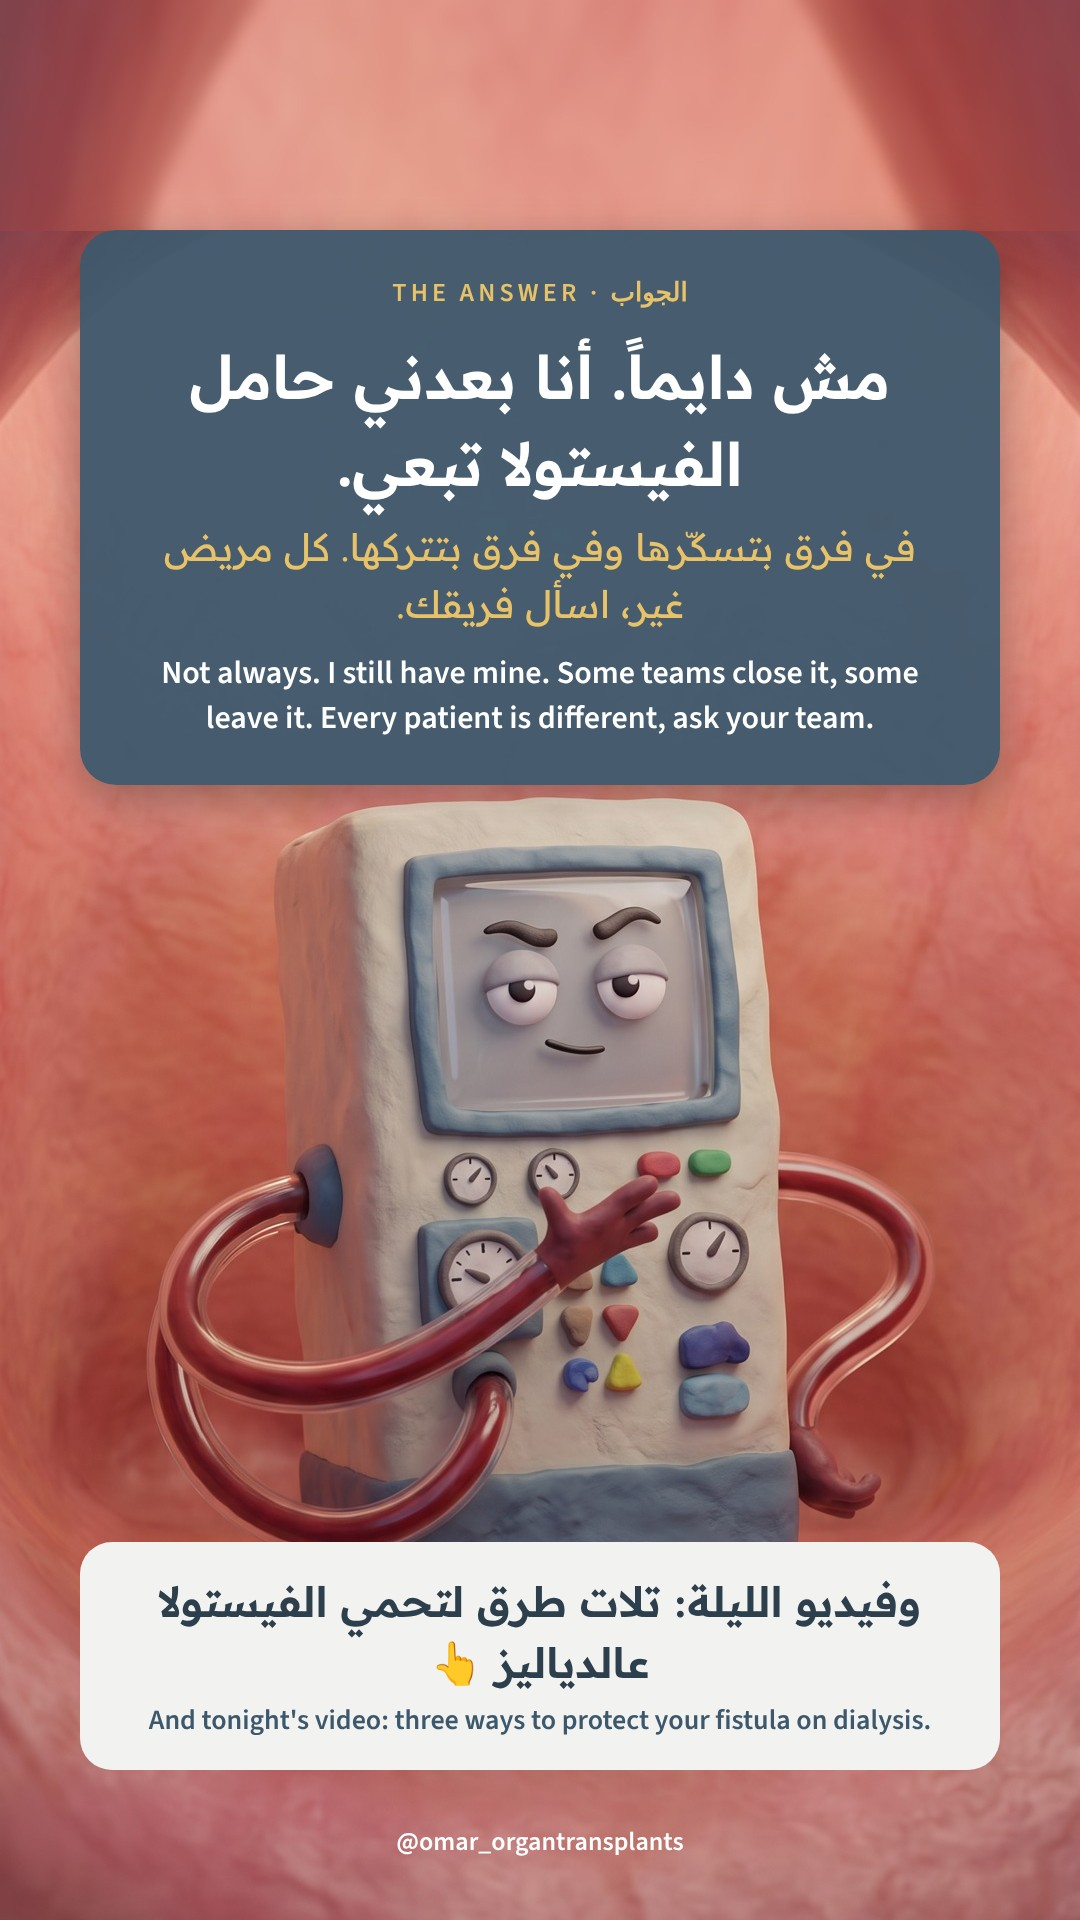
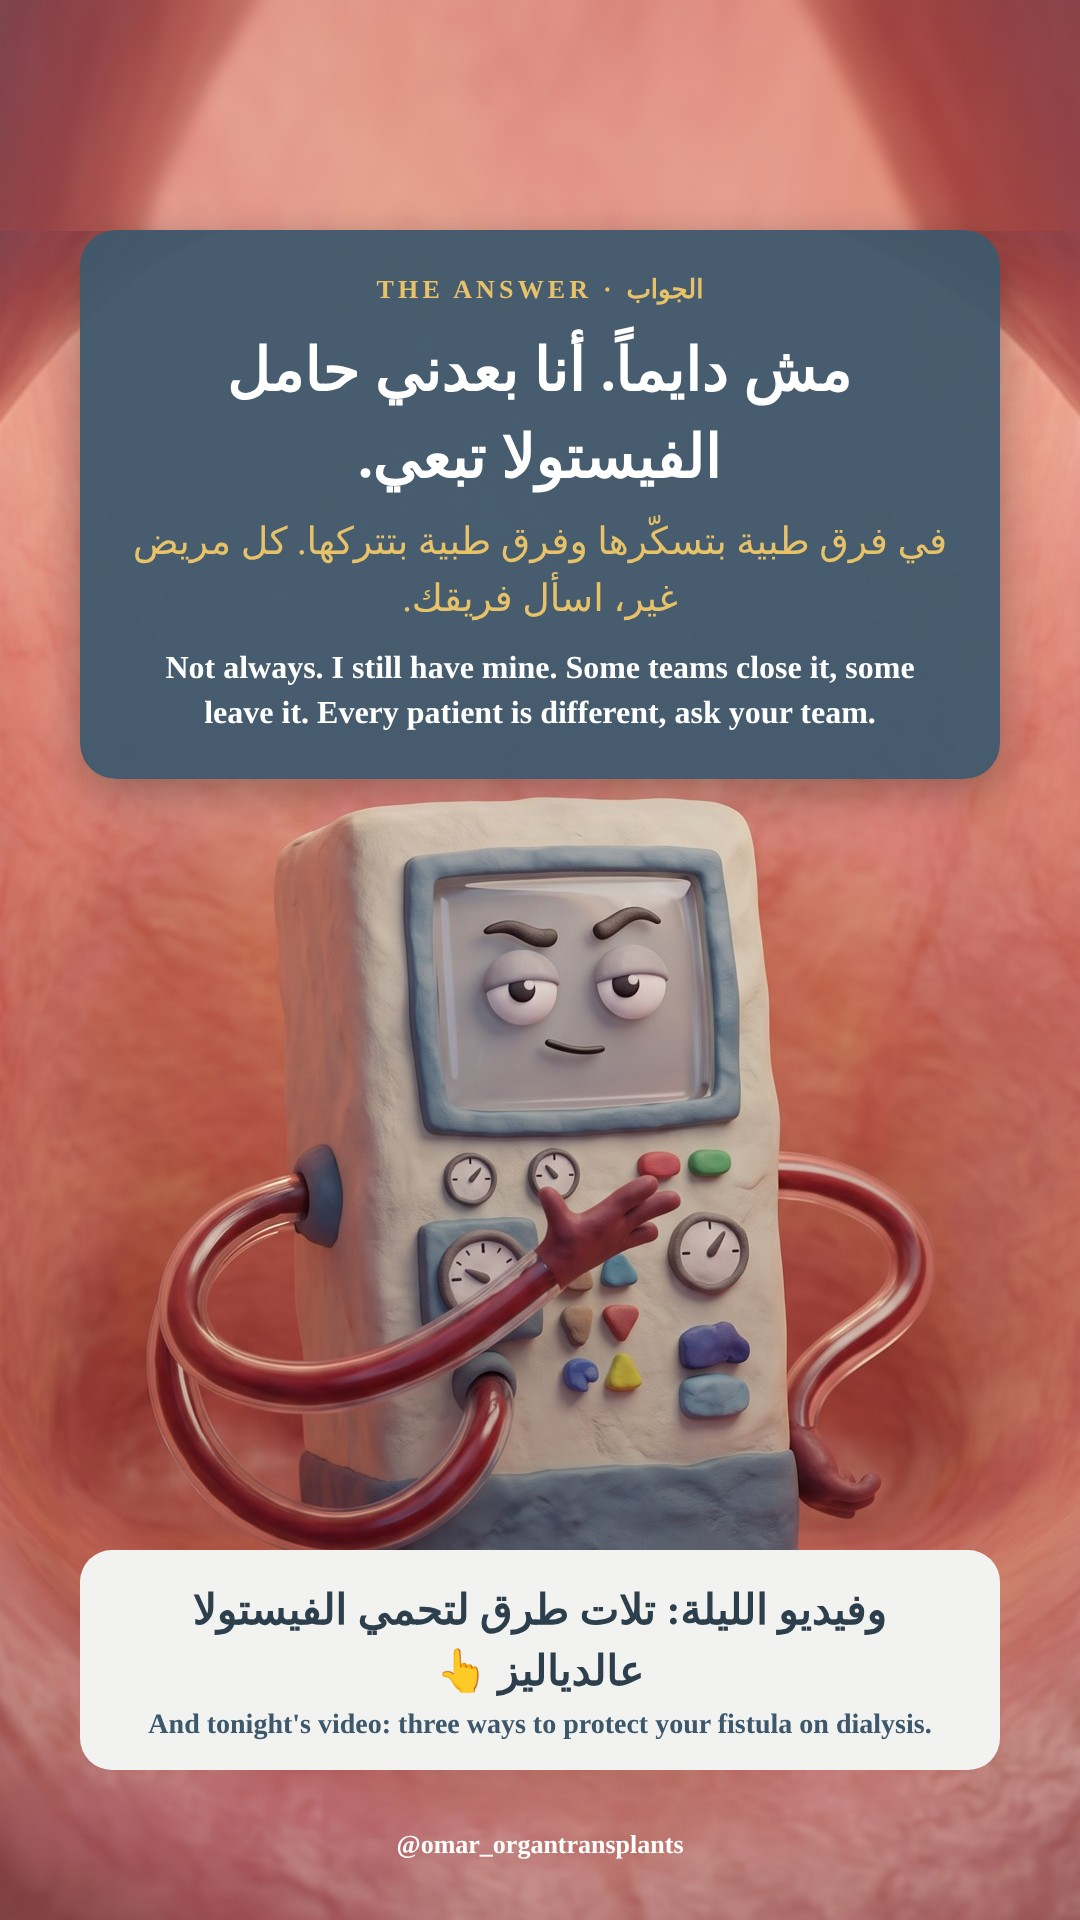
D1112b: use فرق طبية (Omar, 11 Nov) + wording rule in tools/README
Claude-Session: https://claude.ai/code/session_015KYtjJJUDackNT4dw8s1p3

Changed region(s): [[0.1222, 0.125, 0.8861, 0.4062], [0.0917, 0.7812, 0.9167, 0.9062], [0.3667, 0.9375, 0.6417, 0.9688]]

diff --git a/tools/README.md b/tools/README.md
@@ -19,3 +19,4 @@
 - AI16, AI17, AI20 moved (Omar, 4 Nov) to after the ElevenLabs renewal on 23 Nov, saving credits but keeping the Mon/Wed/Fri rhythm: AI20 (S1 Ep1 Freedom) Wed 25 Nov, AI16 (pig kidneys) Fri 27 Nov, AI17 (You asked) Mon 30 Nov. Credit rules still apply (approved script first, one image variation 1K 9:16, one voice take, reuse scenes).
 - BACKUPS (Omar, 4 Nov): every deliverable that is a file (PDF guides, cheat sheets, final videos you build, etc.) must also be backed up to Drive, not only sent in chat. Commit it to the repo, then upload it with Make scenario 8366979 (now "BTBTP – Upload files to Drive (stories, guides)"): each item in module 1's JSON takes url, name and an optional folder id (default = BTBTP AI stories folder). Guides go to "BTBTP Guides (backup)" 1gSx6AVwqZNcZcWXZ7s9n-pE6IAUIZCto. Activate, run, check Drive, deactivate. Blood test guide v1 = guides/BTBTP_Blood_Test_Guide_v1.pdf.
 - Make uploads: use raw URLs pinned to the commit SHA (https://raw.githubusercontent.com/omarchebbo97-coder/btbtp-media/<sha>/path), not ?v=N. raw.githubusercontent caches by path for a few minutes and ignores the query string, so ?v=N can upload a stale file (happened 4 Nov). Check the Drive file size matches the local file.
+- Wording (Omar, 11 Nov): when Arabic text says "teams" in the medical sense, write "فرق طبية", never bare "فرق" (e.g. "في فرق طبية بتسكّرها وفرق طبية بتتركها"). Applies to stories, carousels, captions and scripts from now on.
